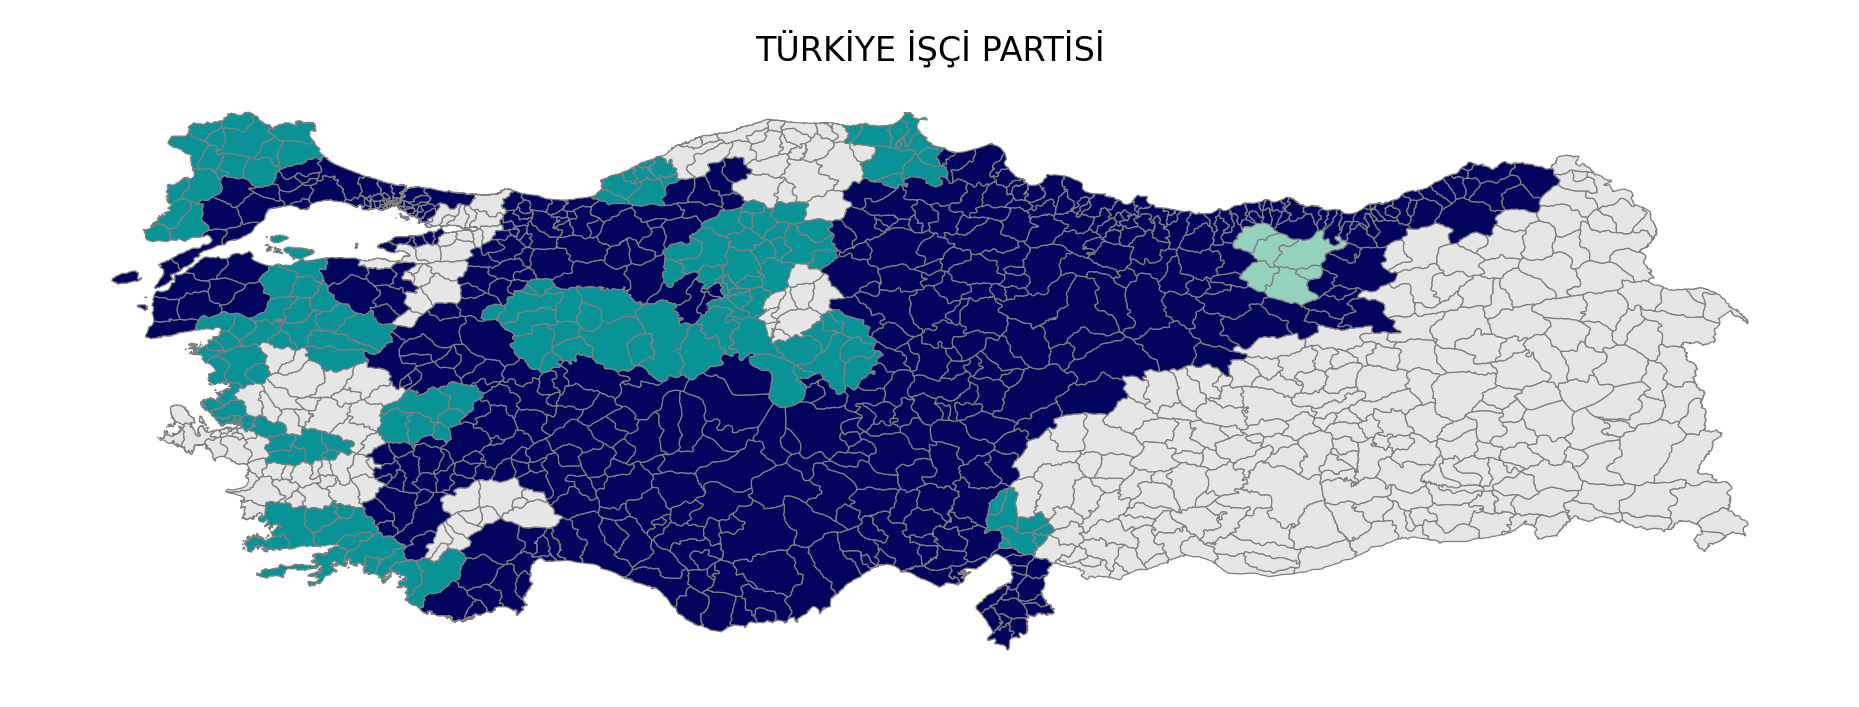
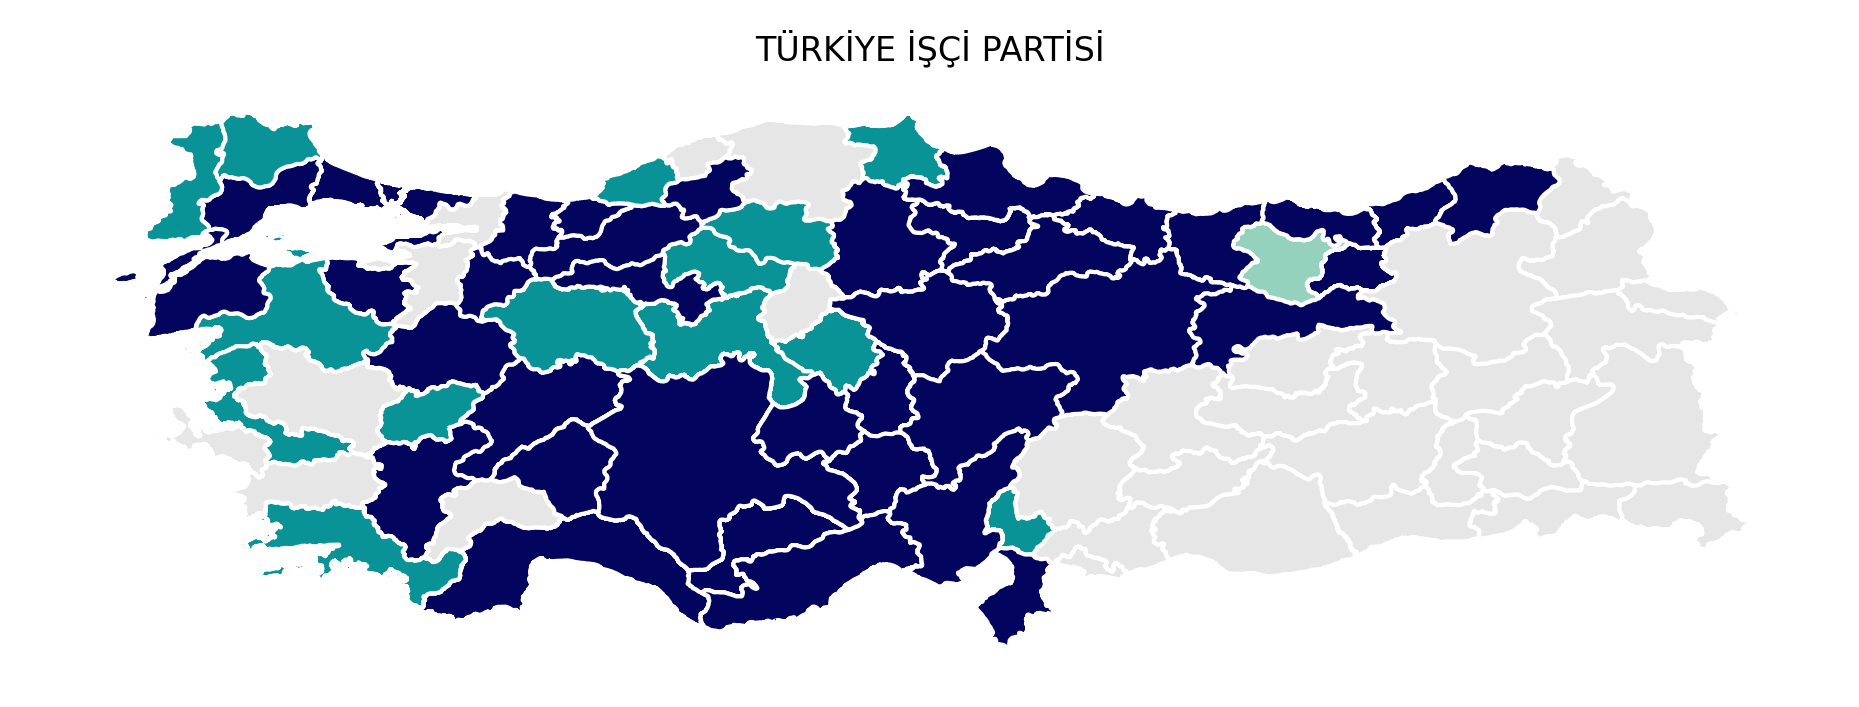
update-post

Changed region(s): [[0.0624, 0.1556, 0.936, 0.9335]]

diff --git a/posts/230420/index.html b/posts/230420/index.html
@@ -110,7 +110,7 @@
                     <h4>Cinsiyet etkisi</h4>
 
                     <p>
-                        Gözlemlediğimiz cinsiyet dağılım grafiğine göre, Türkiye'nin siyasi partileri arasında kadın aday sayısı ve temsil oranlarında dikkate değer farklılıklar mevcut. İktidardaki AKP'nin adaylarının yalnızca %10'u kadın iken, ana muhalefetteki CHP'nin kadın aday oranı %30.  Yeşiller ve Sol Gelecek Partisi ve Türkiye İşçi Partisi, en fazla kadın adayın bulunduğu partiler olarak öne çıkıyor. Genel olarak, sol partilerde daha fazla kadın adayın yer aldığını görmekteyiz. Diğer taraftan, Cumhur İttifak’ında yer alan fakat ayrı bir liste seçimlere katılan Yeniden Refah Partisi, en düşük kadın aday oranına sahip parti olarak dikkat çekiyor. Bu verilere dayanarak, Türkiye siyasetinde kadınların temsili konusunda partiler arası önemli farklılıkların olduğunu söyleyebiliriz. Peki muhalefet ve sol partilerin çoğunluğa sahip olduğu bir senaryoda daha fazla kadın aday görecek miyiz? Bunu anlayabilmek için aşağıdaki grafiği gösteriyoruz. 
+                        Gözlemlediğimiz cinsiyet dağılım grafiğine göre, Türkiye'nin siyasi partileri arasında kadın aday sayısı ve temsil oranlarında dikkate değer farklılıklar mevcut. İktidardaki AKP'nin adaylarının yalnızca %20'si kadın iken, ana muhalefetteki CHP'nin kadın aday oranı %28.  Yeşiller ve Sol Gelecek Partisi ve Türkiye İşçi Partisi, en fazla kadın adayın bulunduğu partiler olarak öne çıkıyor. Genel olarak, sol partilerde daha fazla kadın adayın yer aldığını görmekteyiz. Diğer taraftan, Cumhur İttifak’ında yer alan fakat ayrı bir liste seçimlere katılan Yeniden Refah Partisi, en düşük kadın aday oranına sahip parti olarak dikkat çekiyor. Bu verilere dayanarak, Türkiye siyasetinde kadınların temsili konusunda partiler arası önemli farklılıkların olduğunu söyleyebiliriz. Peki muhalefet ve sol partilerin çoğunluğa sahip olduğu bir senaryoda daha fazla kadın aday görecek miyiz? Bunu anlayabilmek için aşağıdaki grafiği gösteriyoruz. 
                     </p>
 
                     <img src="./cinsiyetDagilimi.png" width="100%">
@@ -129,7 +129,7 @@
                     </p>
 
                     <p>
-                        Sonuç itibariyle, öğrenim durumu, cinsiyet ve sıralamalar üzerinden gerçekleştirdiğimiz bu kısa analizle, meclis aritmetiği hakkındaki tartışmalara farklı bir boyut kazandırmayı hedefledik. Özellikle cinsiyet eşitliği bağlamında genel tablonun oldukça iyimser olmadığını belirtmekte fayda var. Örneğin, İYİ Parti'nin %28 oranında kadın aday göstermesine karşın, birinci sıradaki kadın aday oranı sadece %13 olarak görülmektedir. AKP ve diğer sağ partilerle de benzer bir durum söz konusudur. Dolayısıyla, sadece kadın aday sayıları değil, liste başında seçilebilir konumda olan adayların sayısı da önem arz etmektedir. Bu bağlamda, Emek ve Özgürlük İttifakı ve sol partiler cinsiyet eşitliğine daha fazla önem vermekle birlikte, kadın aday oranı ve birinci sıradan seçilebilecek kadın aday oranı arasında önemli bir farklılık bulunmamaktadır.
+                        Sonuç itibariyle, öğrenim durumu, cinsiyet ve sıralamalar üzerinden gerçekleştirdiğimiz bu kısa analizle, meclis aritmetiği hakkındaki tartışmalara farklı bir boyut kazandırmayı hedefledik. Özellikle cinsiyet eşitliği bağlamında genel tablonun oldukça iyimser olmadığını belirtmekte fayda var. Örneğin, İYİ Parti'nin %28 oranında kadın aday göstermesine karşın, birinci sıradaki kadın aday oranı sadece %12 olarak görülmektedir. AKP ve diğer sağ partilerle de benzer bir durum söz konusudur. Dolayısıyla, sadece kadın aday sayıları değil, liste başında seçilebilir konumda olan adayların sayısı da önem arz etmektedir. Bu bağlamda, Emek ve Özgürlük İttifakı ve sol partiler cinsiyet eşitliğine daha fazla önem vermekle birlikte, kadın aday oranı ve birinci sıradan seçilebilecek kadın aday oranı arasında önemli bir farklılık bulunmamaktadır.
                     </p>
                     <p>
                         Eğitim durumu daha ilginç eğilimlere işaret etmektedir. AKP daha fazla sayıda yüksek eğitime sahip aday sayısına sahip olmakla birlikte, onu izleyen CHP ve İYİ Parti, diğer partilere kıyasla daha fazla yüksek öğrenimli aday bulundurmaktadır. Memleket, Yeniden Refah, Yeşiller ve Sol Gelecek Partisi ise diğer partilere göre daha az sayıda ve oranda öğrenimli aday bulundurmaktadır.
@@ -143,7 +143,7 @@
 
 
                     <p>
-                        <i><b>Tablo 1:</b> CUMHUR ittifakı partilerinin illere göre ilk adaylarının öğrenim durumu (<span style="color:#94d2bd;"><b>İLK</b></span>, <span style="color:#0a9396;"><b>ORTA</b></span>, <span style="color:#03045e;"><b>YÜKSEK</b></span>) ve cinsiyet (<span style="color:#c1121f;"><b>KADIN</b></span>, <span style="color:#bfd7ea;"><b>ERKEK</b></span>)dağılımını</i>
+                        <i><b>Tablo 1:</b> CUMHUR ittifakı partilerinin illere göre ilk adaylarının öğrenim durumu (<span style="color:#94d2bd;"><b>İLK</b></span>, <span style="color:#0a9396;"><b>ORTA</b></span>, <span style="color:#03045e;"><b>YÜKSEK</b></span>) ve cinsiyet (<span style="color:#c1121f;"><b>KADIN</b></span>, <span style="color:#bfd7ea;"><b>ERKEK</b></span>)dağılımı.</i>
                     </p>
                     <table>
                         <tr>
@@ -170,7 +170,7 @@
 
 
                     <p>
-                        <i><b>Tablo 2:</b> MILLET ittifakı partilerinin illere göre ilk adaylarının öğrenim durumu (<span style="color:#94d2bd;"><b>İLK</b></span>, <span style="color:#0a9396;"><b>ORTA</b></span>, <span style="color:#03045e;"><b>YÜKSEK</b></span>) ve cinsiyet (<span style="color:#c1121f;"><b>KADIN</b></span>, <span style="color:#bfd7ea;"><b>ERKEK</b></span>)dağılımını</i>
+                        <i><b>Tablo 2:</b> MILLET ittifakı partilerinin illere göre ilk adaylarının öğrenim durumu (<span style="color:#94d2bd;"><b>İLK</b></span>, <span style="color:#0a9396;"><b>ORTA</b></span>, <span style="color:#03045e;"><b>YÜKSEK</b></span>) ve cinsiyet (<span style="color:#c1121f;"><b>KADIN</b></span>, <span style="color:#bfd7ea;"><b>ERKEK</b></span>)dağılımı.</i>
                     </p>
                     <table>
                         <tr>
@@ -185,7 +185,7 @@
 
 
                     <p>
-                        <i><b>Tablo 3:</b> Diğer bazı partilerin illere göre ilk adaylarının öğrenim durumu (<span style="color:#94d2bd;"><b>İLK</b></span>, <span style="color:#0a9396;"><b>ORTA</b></span>, <span style="color:#03045e;"><b>YÜKSEK</b></span>) ve cinsiyet (<span style="color:#c1121f;"><b>KADIN</b></span>, <span style="color:#bfd7ea;"><b>ERKEK</b></span>)dağılımını</i>
+                        <i><b>Tablo 3:</b> Diğer bazı partilerin illere göre ilk adaylarının öğrenim durumu (<span style="color:#94d2bd;"><b>İLK</b></span>, <span style="color:#0a9396;"><b>ORTA</b></span>, <span style="color:#03045e;"><b>YÜKSEK</b></span>) ve cinsiyet (<span style="color:#c1121f;"><b>KADIN</b></span>, <span style="color:#bfd7ea;"><b>ERKEK</b></span>)dağılımı.</i>
                     </p>
                     <table>
                         <tr>
@@ -204,6 +204,12 @@
 
                     <p>
                         14 Mayıs Parlamento ve Başkanlık Seçimleri öncesinde, aday profillerinin öğrenim durumu, cinsiyet ve sıralamalar üzerinden yaptığımız analize göre partilerin aday öncelikleri kısmen tespit edebiliyoruz.  AKP, CHP ve İYİ Parti, yüksek öğrenimli adaylara öncelik verirken, sol partilerde kadın aday sayısı ve temsil oranları belirgin oranda daha yüksek. Analizimizi biraz daha derinleştirmek için birinci sıradan gösterilen adayların öğrenim durumu ve cinsiyet eşitliği açısından coğrafi dağılımını da inceledik. Bölgesel eğilimler incelendiğinde, az sayıda bazı partilerde coğrafi değişkenlik olduğunu gördük. Özetle özellikle doğuya doğru gidildikçe, bazı partilerin kadın adaylarının oranı ve eğitim seviyeleri düştüğünü gözlemledik. Fakat bu durum birkaç siyasi parti için geçerli olmakla birlikte, genel olarak birinci sıradan gösterilen adayların eğitim durumu ve cinsiyet nezdinde bölgesel bir farklılık gözlemlemedik. 
+                    </p>
+
+                    <p>
+                        <i>
+                            <b>Düzeltme (28 Nisan 2023)</b>: Paylaşmış olduğumuz ilk analizde millet vekili adaylarının cinsiyet bilgileri YSK tarafından paylaşılmamış olduğundan, Türkçe isimlerin kullanımındaki rastlanen cinsiyet verilerinden çıkarım yaptık. Bazı uniseks isimler için elle düzeltmeler yapılmasına rağmen başka hatalar fark ettik ve gerekli düzeltmeleri yaptık. Ayrıca haritalarda da ilçe bazından sınırlardansa seçim bilgeleri belirten sınırları kullanarak görselleri güncelledik.
+                        </i>
                     </p>
                     
                 </div>
